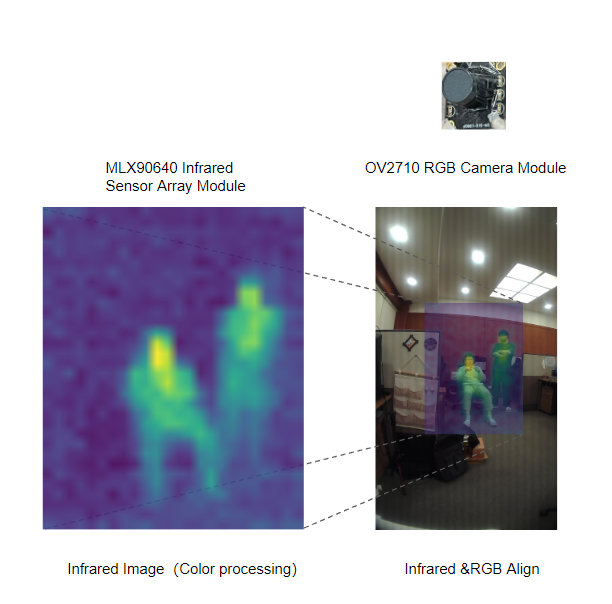
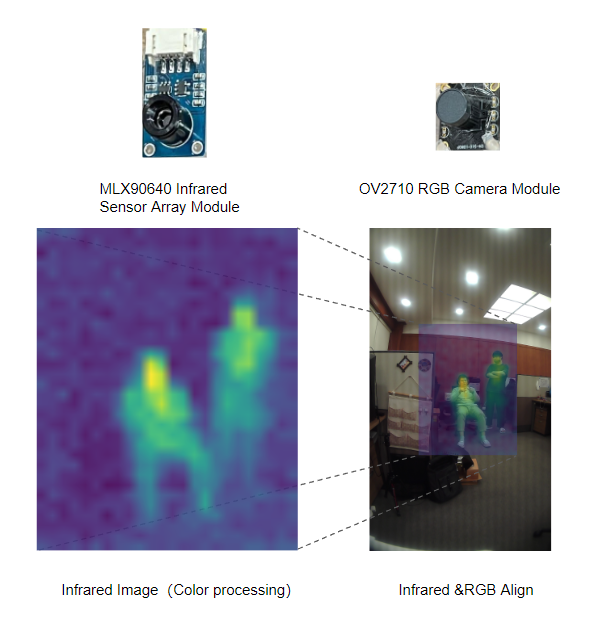
update

diff --git a/README.md b/README.md
@@ -2,6 +2,5 @@
 
 This dataset was collected by us using the low-resolution infrared imaging module MLX90640. The IR raw sensor resolution in this dataset is 32x24.
 
-![alt text](device.png "Devices")
-![alt text](preprocessing.png "Preprocessing")
-![alt text](result.png "Prrdict Result")
+![alt text](preprocessing.png "Devices & Preprocessing")
+![alt text](result.png "Predict Result")
